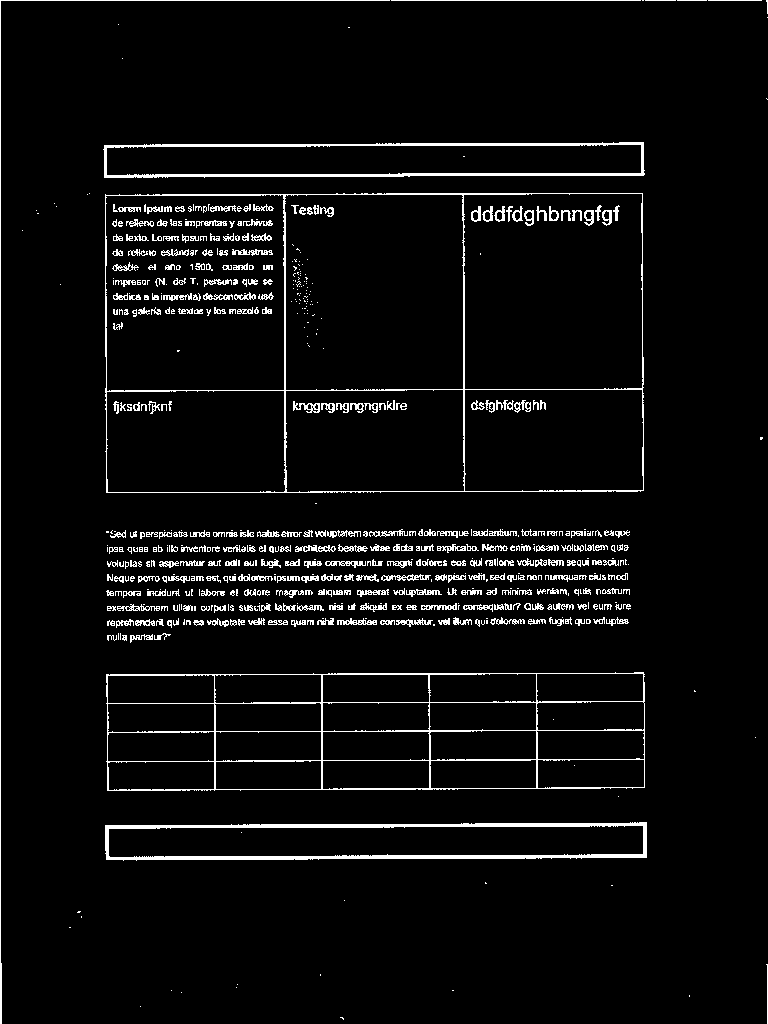
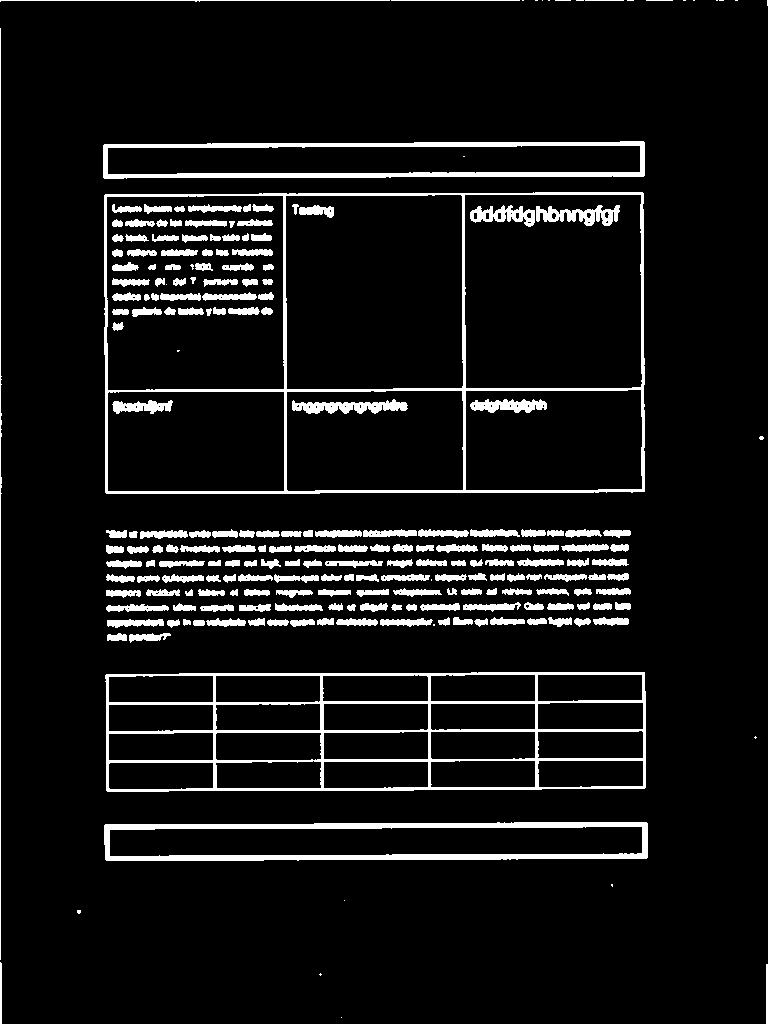
Reconoce el rectangulo mas grande

diff --git a/main.py b/main.py
@@ -11,23 +11,55 @@ def showImage(name):
 
 #Load image
 img = cv2.imread('planilla.jpg')
-img = cv2.resize(img,(768,1024), interpolation = cv2.INTER_CUBIC)
+img = cv2.resize(img,(768,1024), interpolation = cv2.INTER_LINEAR)
+img = cv2.GaussianBlur(img,(3,3),0)
 gray_image = cv2.cvtColor(img, cv2.COLOR_BGR2GRAY)
 
-mean = cv2.adaptiveThreshold(gray_image,255,cv2.ADAPTIVE_THRESH_MEAN_C, cv2.THRESH_BINARY,11,2)
+mean = cv2.adaptiveThreshold(gray_image,255,cv2.ADAPTIVE_THRESH_MEAN_C, cv2.THRESH_BINARY,75,10) #11,2
 showImage(mean)
-ret,thresh5 = cv2.threshold(mean,127,255,cv2.THRESH_BINARY_INV)
-showImage(thresh5)
-cv2.imwrite('im1.png',thresh5)
+ret,thresh = cv2.threshold(mean,127,255,cv2.THRESH_BINARY_INV)
+showImage(thresh)
+
+kernel = np.ones((4,4),np.uint8)
+erosion = cv2.erode(thresh,kernel,iterations = 1)
+showImage(erosion)
+cv2.imwrite('erosion.png',erosion)
+
+image, contours, hierarchy = cv2.findContours(erosion,cv2.RETR_TREE,cv2.CHAIN_APPROX_NONE)
+indexMax = 0
+x,y,w,h = cv2.boundingRect(contours[0])
+maxArea = w*h
+
+for i in range(0,len(contours)):
+	cnt = contours[i]
+	x,y,w,h = cv2.boundingRect(cnt)
+	if maxArea < w*h:
+		maxArea=w*h
+		indexMax = i
+
+cnt = contours[indexMax]
+x,y,w,h = cv2.boundingRect(cnt)
+img = cv2.rectangle(erosion,(x,y),(x+w,y+h),(129,0,0),3)
+
+showImage(erosion)
+cv2.imwrite('erosion.png',erosion)
 
 
-mean = cv2.adaptiveThreshold(gray_image, 255,cv2.ADAPTIVE_THRESH_GAUSSIAN_C, cv2.THRESH_BINARY,11,2)
-ret,thresh5 = cv2.threshold(mean,127,255,cv2.THRESH_BINARY_INV)
-showImage(thresh5)
+"""
+#cv2.HoughLinesP(image, rho, theta, threshold[, lines[, minLineLength[, maxLineGap]]])
+lines = cv2.HoughLinesP(erosion,1, np.pi/180, 2, 20, 50);
+for x1,y1,x2,y2 in lines[0]:
+    cv2.line(img,(x1,y1),(x2,y2),(0,255,0),2)
 
-cv2.imwrite('im2.png',thresh5)
+showImage(img)
 
+cv2.imwrite('im1.png',thresh)
 
+_,contours,hierarchy = cv2.findContours(thresh, 1, 2)
+cnt = contours[0]
+M = cv2.moments(cnt)
+print M
+"""
 
 
 """

diff --git a/contours.py b/contours.py
@@ -1,0 +1,29 @@
+import cv2
+import numpy as np
+from matplotlib import pyplot as plt
+
+
+im = cv2.imread('erosion.png')
+img = cv2.GaussianBlur(img,(5,5),0)
+imgray = cv2.cvtColor(im,cv2.COLOR_BGR2GRAY)
+ret,thresh = cv2.threshold(imgray,127,255,0)
+image, contours, hierarchy = cv2.findContours(thresh,cv2.RETR_TREE,cv2.CHAIN_APPROX_NONE)
+#im = cv2.drawContours(im, contours, -1, (0,255,0), 3)
+
+indexMax = 0
+x,y,w,h = cv2.boundingRect(contours[0])
+maxArea = w-x*h-y
+
+
+for i in range(0,len(contours)):
+	cnt = contours[i]
+	x,y,w,h = cv2.boundingRect(cnt)
+	print x,y,w,h
+	img = cv2.rectangle(im,(x,y),(x+w,y+h),(129,0,0),3)
+#im = cv2.drawContours(im, approx, -1, (0,255,0), 3)
+
+showImage(im)
+
+area = cv2.contourArea(cnt)
+print area
+

diff --git a/lines.py b/lines.py
@@ -1,0 +1,8 @@
+import cv2
+import numpy as np
+
+img = cv2.imread('erosion.png')
+img = cv2.GaussianBlur(img,(3,3),0)
+img = cv2.cvtColor(img, cv2.COLOR_BGR2GRAY)
+
+showImage(img)
